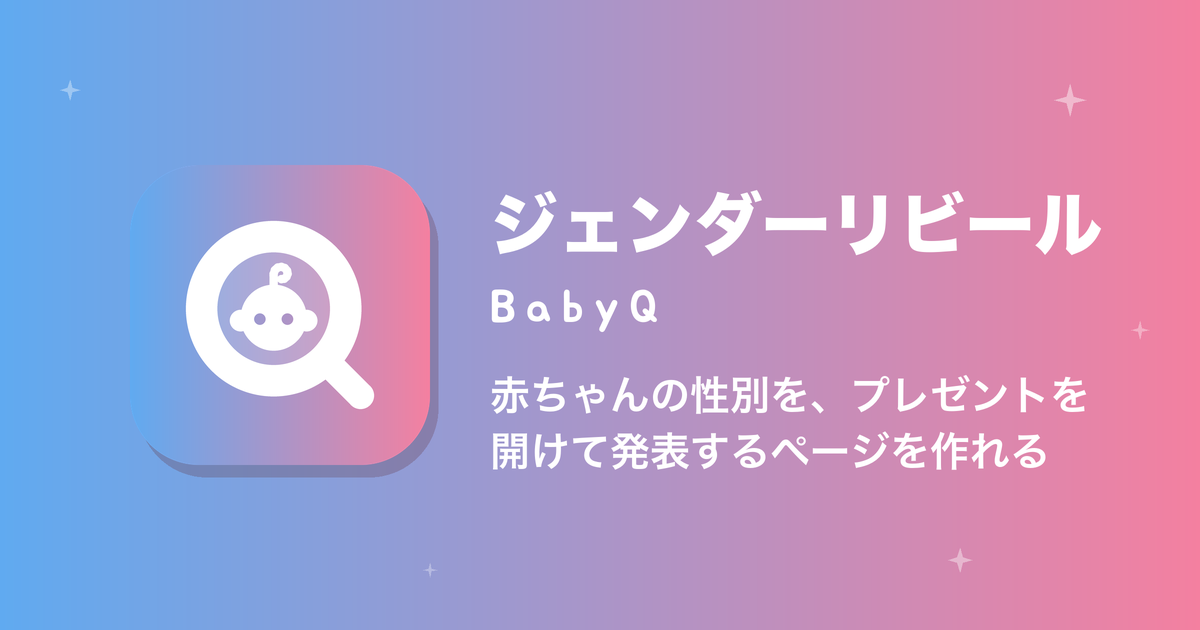
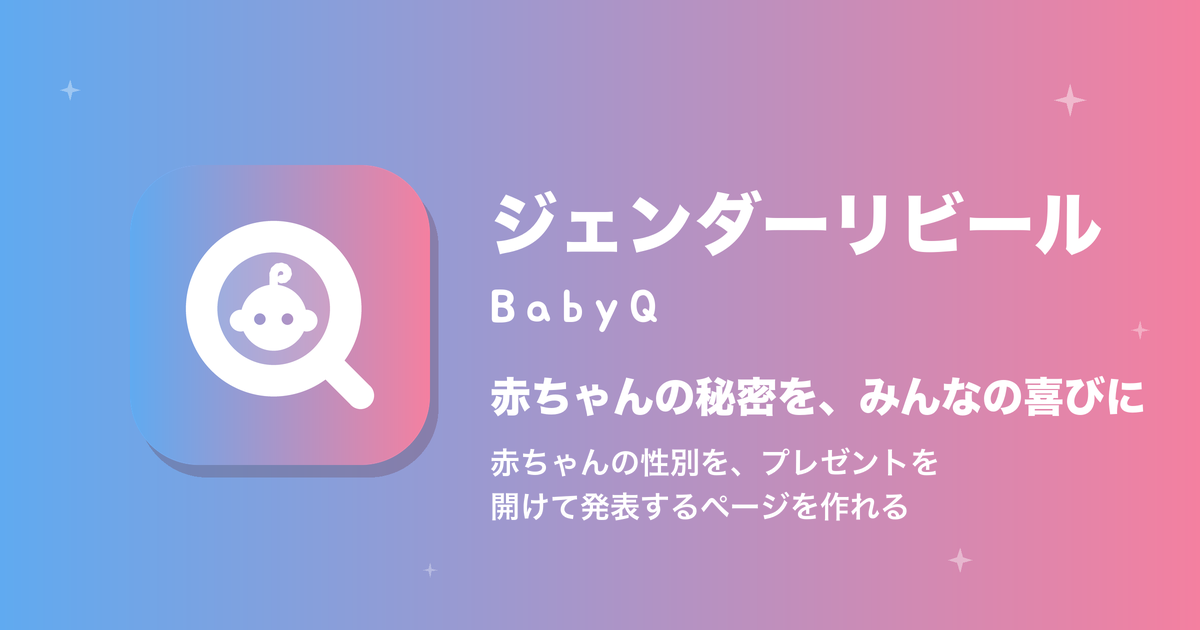
[add] キャッチコピー「赤ちゃんの秘密を、みんなの喜びに」を見出しの下と OGP に入れる

Changed region(s): [[0.4008, 0.573, 0.9558, 0.754], [0.4008, 0.7841, 0.7708, 0.8444]]

diff --git a/create.html b/create.html
@@ -53,6 +53,8 @@
   /* 見出しの行：アイコン＋名前（左）と横長のロゴ（右） */
   .brand { display: flex; align-items: center; justify-content: space-between; gap: 10px; margin-bottom: 4px; }
   .brand-logo { display: block; flex: 0 0 auto; width: auto; height: 28px; }
+  /* キャッチコピー（見出しの行のすぐ下） */
+  .brand-copy { margin: 0 0 12px; color: #9B7FD1; font-size: 13px; font-weight: 800; line-height: 1.4; letter-spacing: 0.02em; }
   .brand-icon { display: block; flex: 0 0 auto; width: 28px; height: 28px; }
   .brand-name { display: flex; align-items: center; gap: 8px; min-width: 0; margin: 0; font-size: 18px; font-weight: 800; color: var(--ink); white-space: nowrap; }
   /* 作り方の流れ */
@@ -140,6 +142,7 @@
     <p class="brand-name"><img class="brand-icon" src="icon.svg" alt="" width="28" height="28">ジェンダーリビール</p>
     <img class="brand-logo" src="logo.svg" alt="BabyQ" width="75" height="28">
   </div>
+  <p class="brand-copy">赤ちゃんの秘密を、みんなの喜びに</p>
   <h1>🎁 <span class="grad">発表ページを作る</span></h1>
   <p class="sub">赤ちゃんの性別を選ぶだけで、<br>家族に送れる発表ページができます。<br>受け取った人がプレゼントを開けるまで、<br>性別はヒミツのままです🎁</p>
   <div class="flow" aria-label="作り方"><span>① 入力</span><i>›</i><span>② 作る</span><i>›</i><span>③ LINEで送る</span></div>

diff --git a/tools/icon.py b/tools/icon.py
@@ -59,6 +59,7 @@ def main():
     BRAND.write_ogp(
         ROOT / "ogp-create.png", SHAPES, "ジェンダーリビール", "BabyQ",
         ["赤ちゃんの性別を、プレゼントを", "開けて発表するページを作れる"], decorate, name_size=68,
+        copy="赤ちゃんの秘密を、みんなの喜びに",
     )
     print(f"アイコン・logo.svg（高さ 28px なら幅 {28 * ratio:.0f}px）・ogp-create.png を書き出しました")
 
